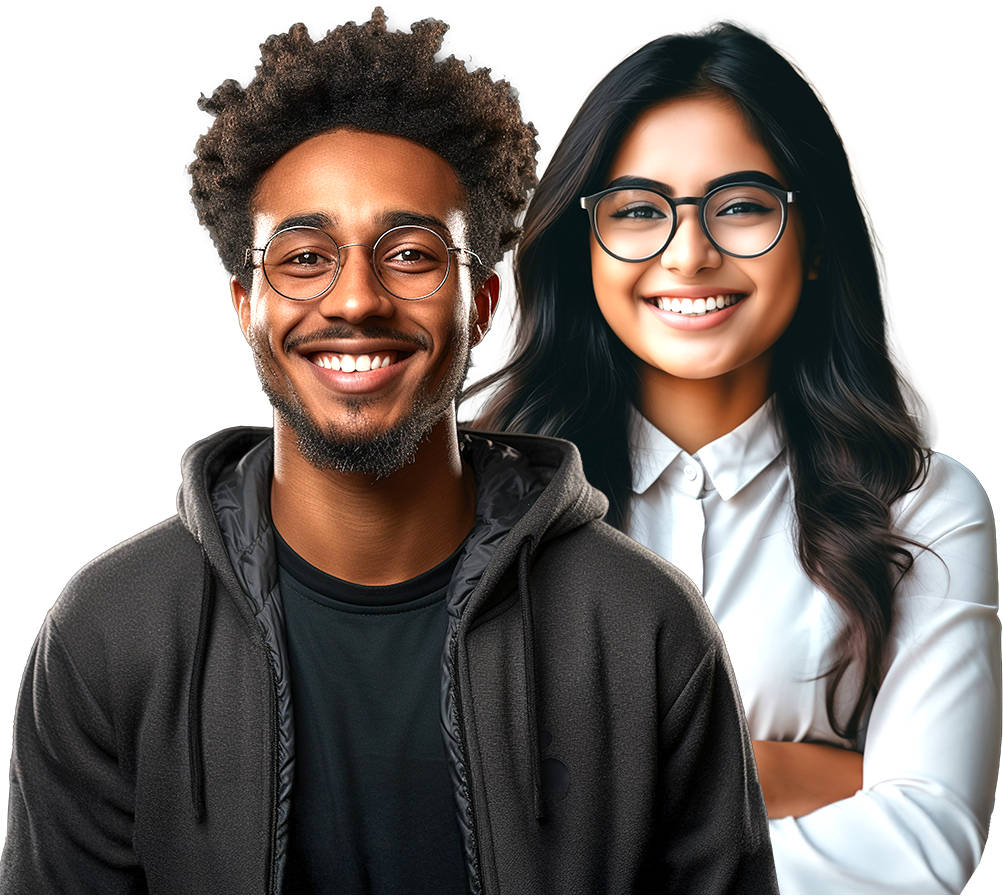
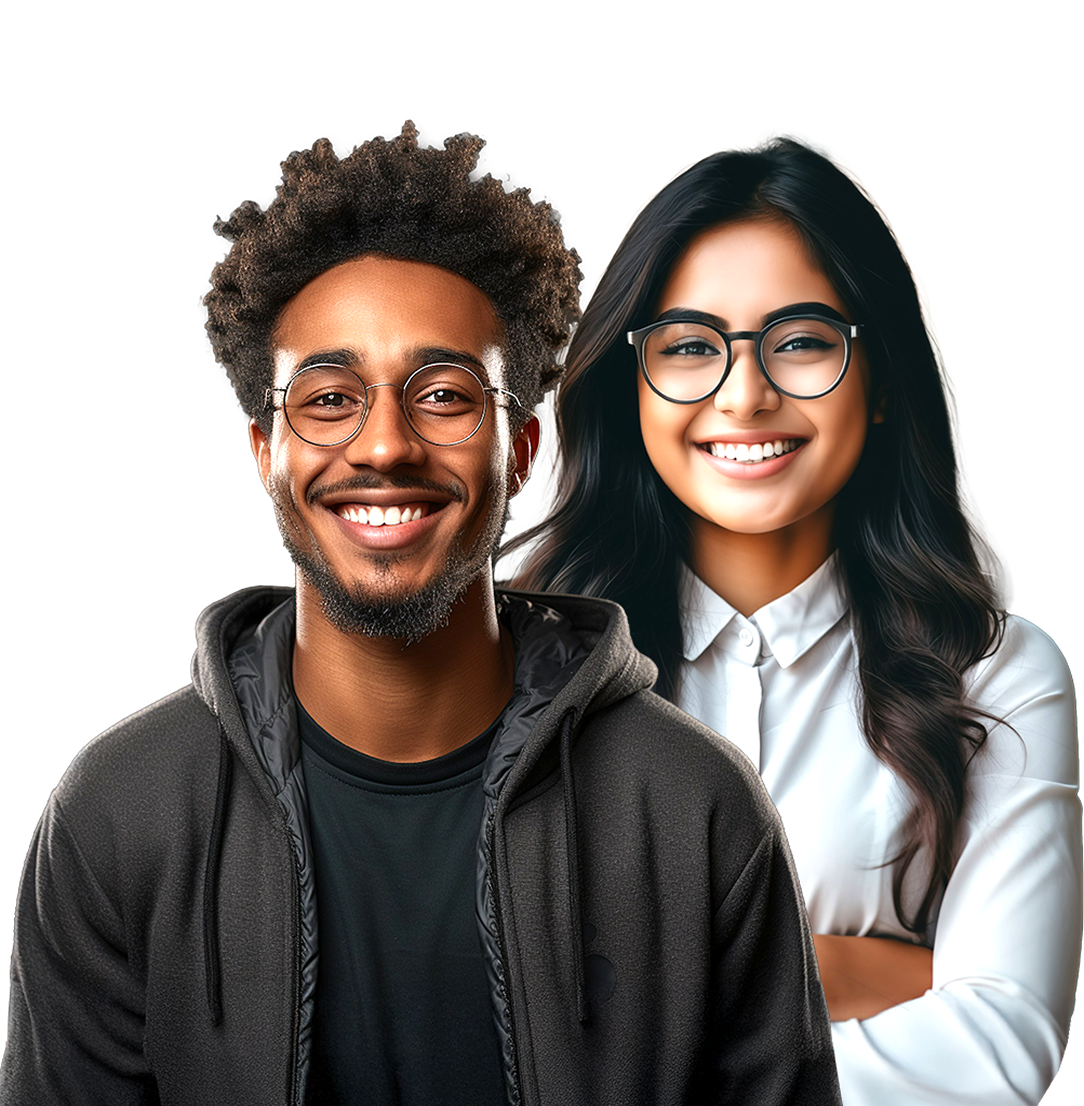
update hero-section

diff --git a/src/components/hero-section.tsx b/src/components/hero-section.tsx
@@ -5,7 +5,6 @@ import Link from "next/link";
 import { useState } from "react";
 import { motion } from "framer-motion";
 import { ChevronDown } from "lucide-react";
-import { scroller } from "react-scroll";
 
 interface HeroSectionProps {
   onTabChange?: (tab: "hiring" | "freelancers") => void;
@@ -46,7 +45,12 @@ export default function HeroSection({ onTabChange }: HeroSectionProps) {
     >
       <div className="container mx-auto px-6 py-16 relative z-10">
         <div className="flex flex-col md:flex-row">
-          <div className="w-full md:w-1/2 pt-10">
+          <motion.div
+            className="w-full md:w-1/2 pt-10"
+            initial={{ x: -100, opacity: 0 }}
+            animate={{ x: 0, opacity: 1 }}
+            transition={{ duration: 0.8, ease: "easeOut" }}
+          >
             {/* Toggle buttons */}
             <div className="inline-flex items-center bg-[#0a2540]/30 rounded-full p-1 mb-8">
               <button
@@ -69,7 +73,7 @@ export default function HeroSection({ onTabChange }: HeroSectionProps) {
                 onClick={() => handleTabChange("freelancers")}
                 style={{ fontFamily: "var(--font-medium)" }}
               >
-                Looking for Job
+                Looking For Job
               </button>
             </div>
 
@@ -171,16 +175,22 @@ export default function HeroSection({ onTabChange }: HeroSectionProps) {
                 </div>
               </>
             )}
-          </div>
+          </motion.div>
 
-          <div className="hidden md:block w-full md:w-1/2 relative">
+          <motion.div
+            className="hidden md:block w-full md:w-1/2 relative h-full flex items-end"
+            initial={{ x: 100, opacity: 0 }}
+            animate={{ x: 0, opacity: 1 }}
+            transition={{ duration: 0.8, ease: "easeOut", delay: 0.2 }}
+          >
             {activeTab === "hiring" ? (
               <Image
                 src="/images/suit-2.png"
                 alt="Professional in suit"
                 width={500}
                 height={600}
-                className="object-contain h-full"
+                className="object-contain"
+                style={{ marginBottom: 0 }}
                 priority
               />
             ) : (
@@ -189,11 +199,12 @@ export default function HeroSection({ onTabChange }: HeroSectionProps) {
                 alt="Smiling professionals"
                 width={500}
                 height={600}
-                className="object-contain h-full"
+                className="object-contain"
+                style={{ marginBottom: 0 }}
                 priority
               />
             )}
-          </div>
+          </motion.div>
         </div>
       </div>
 

diff --git a/src/components/client-service.tsx b/src/components/client-service.tsx
@@ -431,7 +431,7 @@ export default function ClientService() {
         </div>
       </div>
       {/* Ribbon divider using image */}
-      {/* <div className="gradient-wrapper absolute -bottom-24 left-0 w-full hidden">
+      {/* <div className="gradient-wrapper absolute -bottom-24 left-0 w-full">
         <div className="gradient-style ribbon-white h-24 w-full bg-no-repeat bg-cover bg-bottom"></div>
       </div> */}
     </section>
